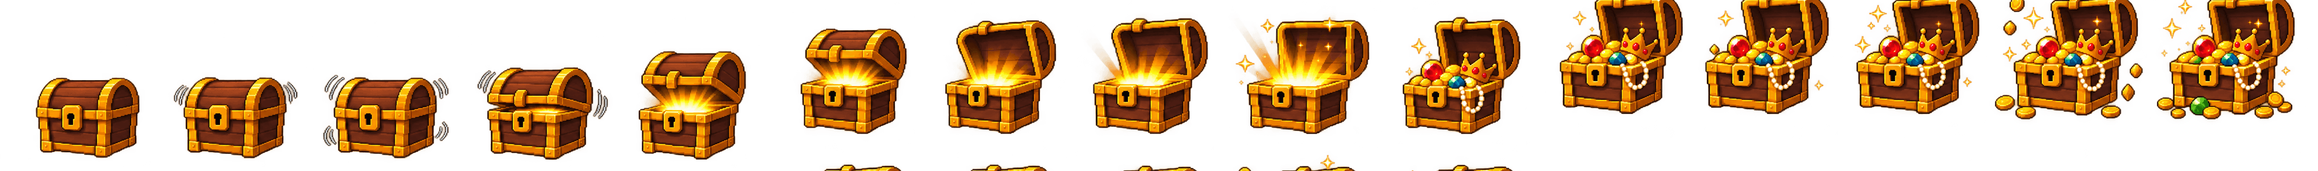
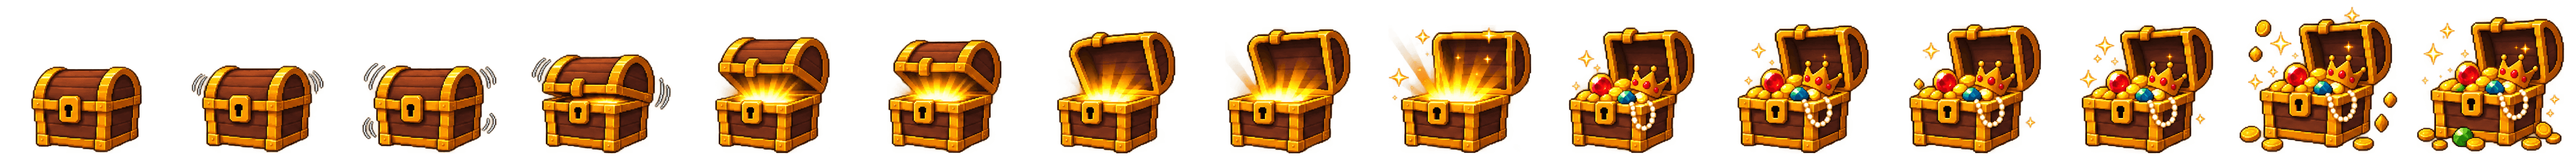
raffle: content-aware sprite slicing so no chest frame is cut off
The source sheet isn't on an even 3x5 grid — art crossed the assumed cell
boundaries, so grid slicing truncated the open-chest bottoms and treasure
sparkle tops. Frames are now located by alpha-channel band/cluster
detection, cropped to their true bounding boxes, and bottom-anchored on a
uniform 320x300 canvas so the chest stays planted while the lid opens.

diff --git a/public/index.html b/public/index.html
@@ -890,12 +890,12 @@ body.vol13-raffle-page .footer {
 /* Treasure chest reveal — transparent 15-frame sprite strip, pops in,
    plays once, then twinkles between the last two frames. */
 .raffle-chest-stage {
-  --chest-w: 288px;
-  --chest-h: 320px;
+  --chest-w: 320px;
+  --chest-h: 300px;
   width: var(--chest-w);
   height: var(--chest-h);
   margin: 0 auto 4px;
-  background-image: url('/raffle-treasure-vol13.png?v=20260827b');
+  background-image: url('/raffle-treasure-vol13.png?v=20260827c');
   background-repeat: no-repeat;
   background-size: calc(var(--chest-w) * 15) var(--chest-h);
   background-position: 0 0;
@@ -958,8 +958,8 @@ body.vol13-raffle-page .footer {
 
 @media (max-width: 560px) {
   .raffle-chest-stage {
-    --chest-w: 216px;
-    --chest-h: 240px;
+    --chest-w: 240px;
+    --chest-h: 225px;
   }
 
   .vol13-header {
@@ -6226,7 +6226,7 @@ const RAFFLE_EVENT_THEMES = {
     confettiColors: ['#ec9ea7', '#6454ff', '#202020', '#ffffff'],
   },
 };
-const RAFFLE_CHEST_SPRITE_SRC = '/raffle-treasure-vol13.png?v=20260827b';
+const RAFFLE_CHEST_SPRITE_SRC = '/raffle-treasure-vol13.png?v=20260827c';
 const RAFFLE_CHEST_REVEAL_MS = 1500;
 
 function getActiveRaffleTheme() {
